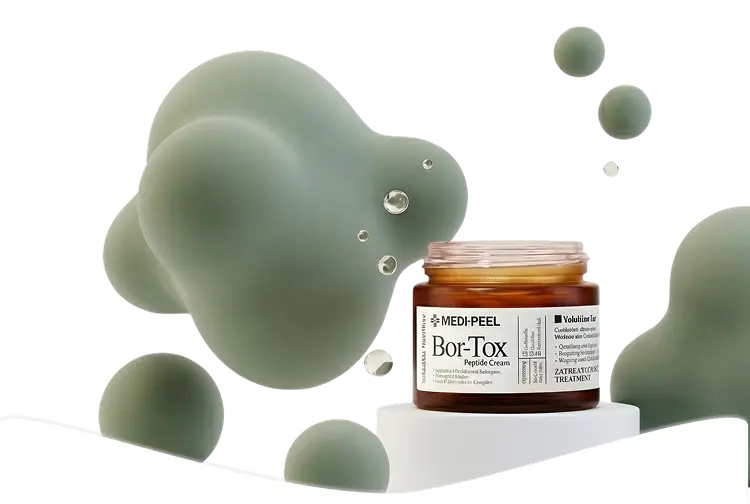
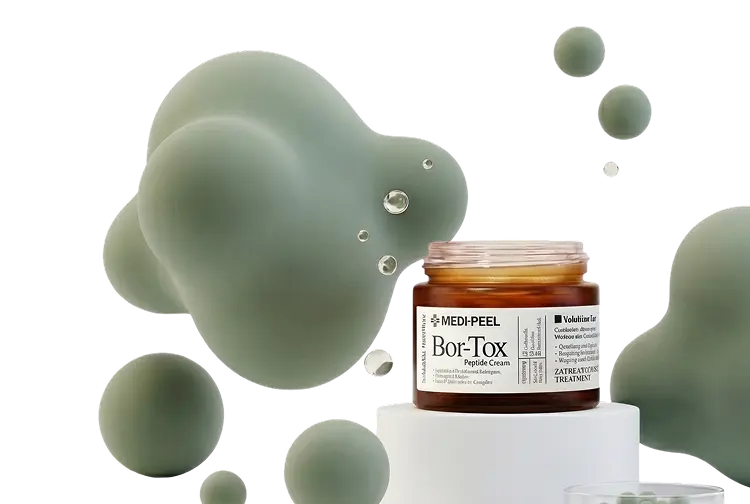
Refactoring-responsive-hero-composition

Changed region(s): [[0.368, 0.8036, 1.0, 1.0], [0.1227, 0.8631, 0.3373, 1.0]]

diff --git a/src/components/HeroSection/HeroSection.jsx b/src/components/HeroSection/HeroSection.jsx
@@ -9,6 +9,7 @@ import heroBallsMobile from "../../assets/images/hero-balls-mobile.webp";
 import heroBallsDesktop from "../../assets/images/hero-balls-desktop.webp";
 import comparisonLeaf from "../../assets/images/comparison-leaf.webp";
 import heroWaveDesktop from "../../assets/images/hero-wave-desktop.webp";
+import heroWaveMobile from "../../assets/images/hero-wave-mobile.webp";
 import { useRef } from "react";
 
 function HeroSection() {
@@ -84,7 +85,8 @@ function HeroSection() {
           aria-hidden="true"
         />
         <picture className={styles.wave}>
-          <img src={heroWaveDesktop} alt="" />
+          <source media="(min-width: 768px)" srcSet={heroWaveDesktop} />
+          <img src={heroWaveMobile} alt="" />
         </picture>
       </div>
     </section>

diff --git a/src/components/HeroSection/HeroSection.module.css b/src/components/HeroSection/HeroSection.module.css
@@ -95,7 +95,7 @@
 .product {
   position: absolute;
   z-index: 2;
-  top: 282px;
+  top: 290px;
   right: 48px;
   width: 140px;
 }
@@ -117,6 +117,7 @@
   right: -12px;
   bottom: 27px;
   width: 96px;
+  top: 405px;
 }
 
 .parallaxLayer {
@@ -127,6 +128,8 @@
   display: block;
   width: 100%;
   pointer-events: none;
+
+  transform: translate(6px, 5px);
 }
 
 .parallaxLayer img {
@@ -136,7 +139,12 @@
 }
 
 .heroMiddleLeaf {
-  visibility: hidden;
+  position: absolute;
+  z-index: 5;
+  top: 307px;
+  left: 146px;
+  width: 90px;
+  pointer-events: none;
 }
 
 .wave {
@@ -242,6 +250,7 @@
   .parallaxLayer {
     z-index: 2;
     bottom: -80px;
+    transform: none;
   }
 
   .product {
